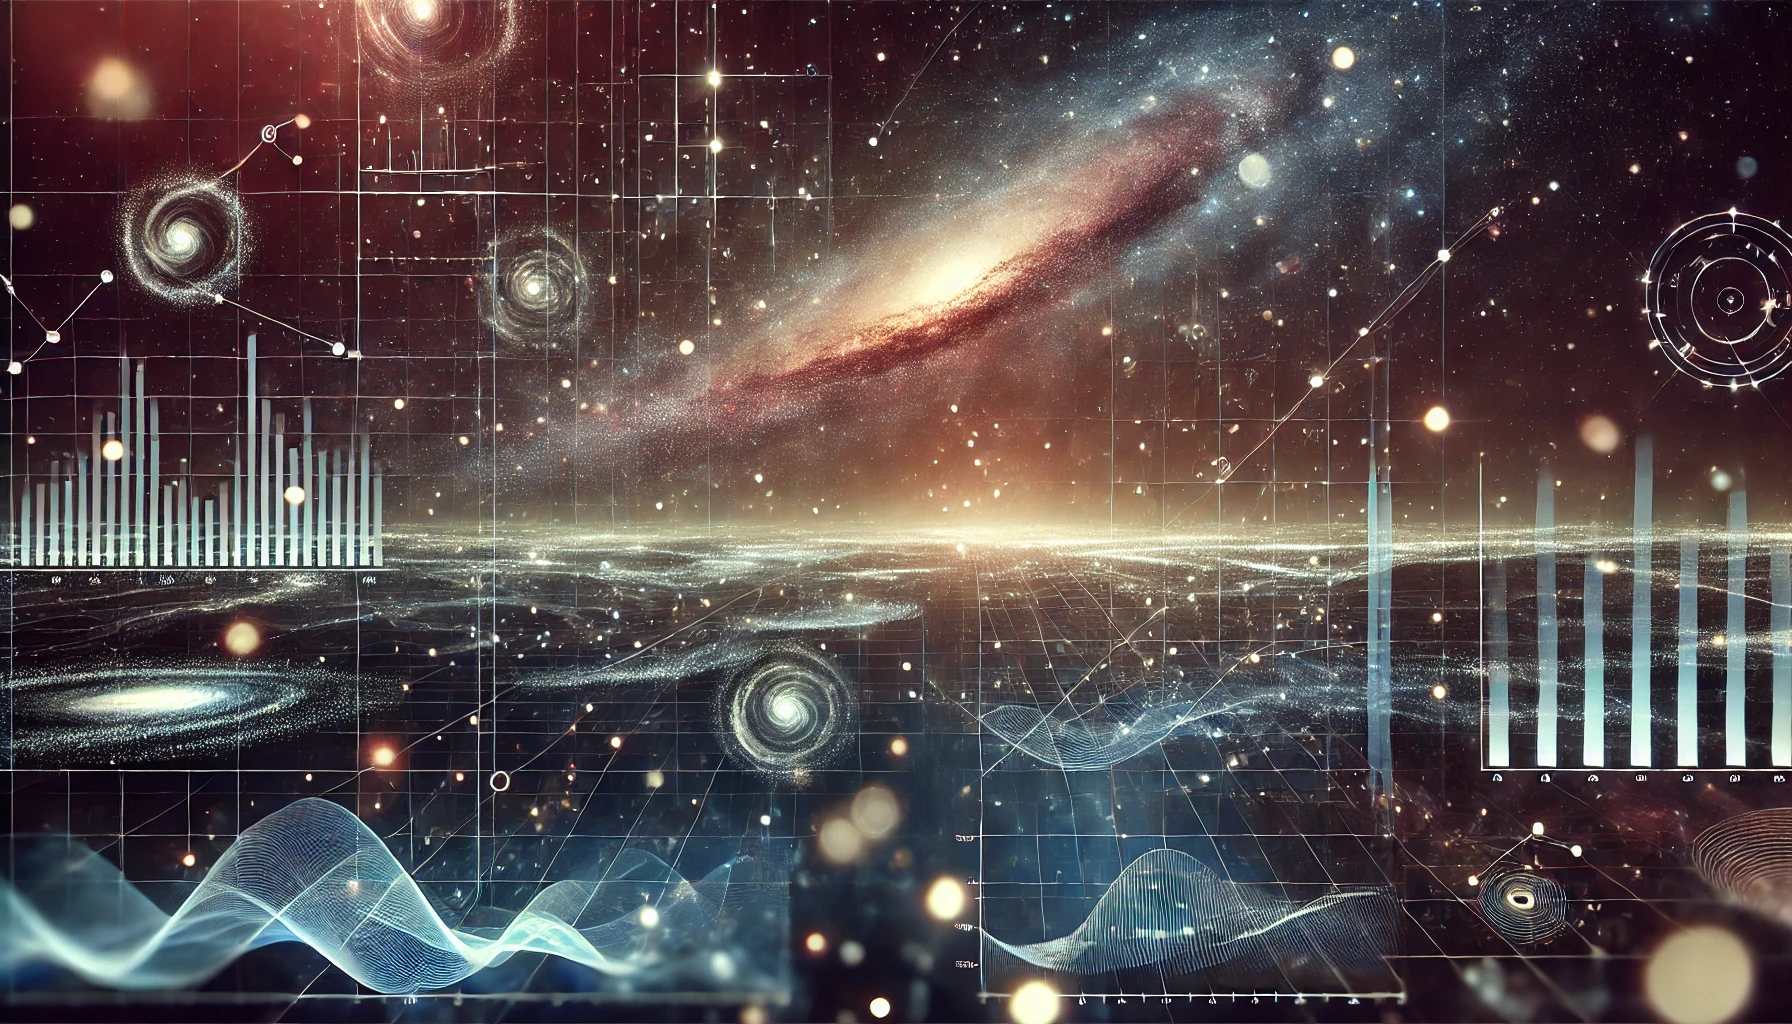
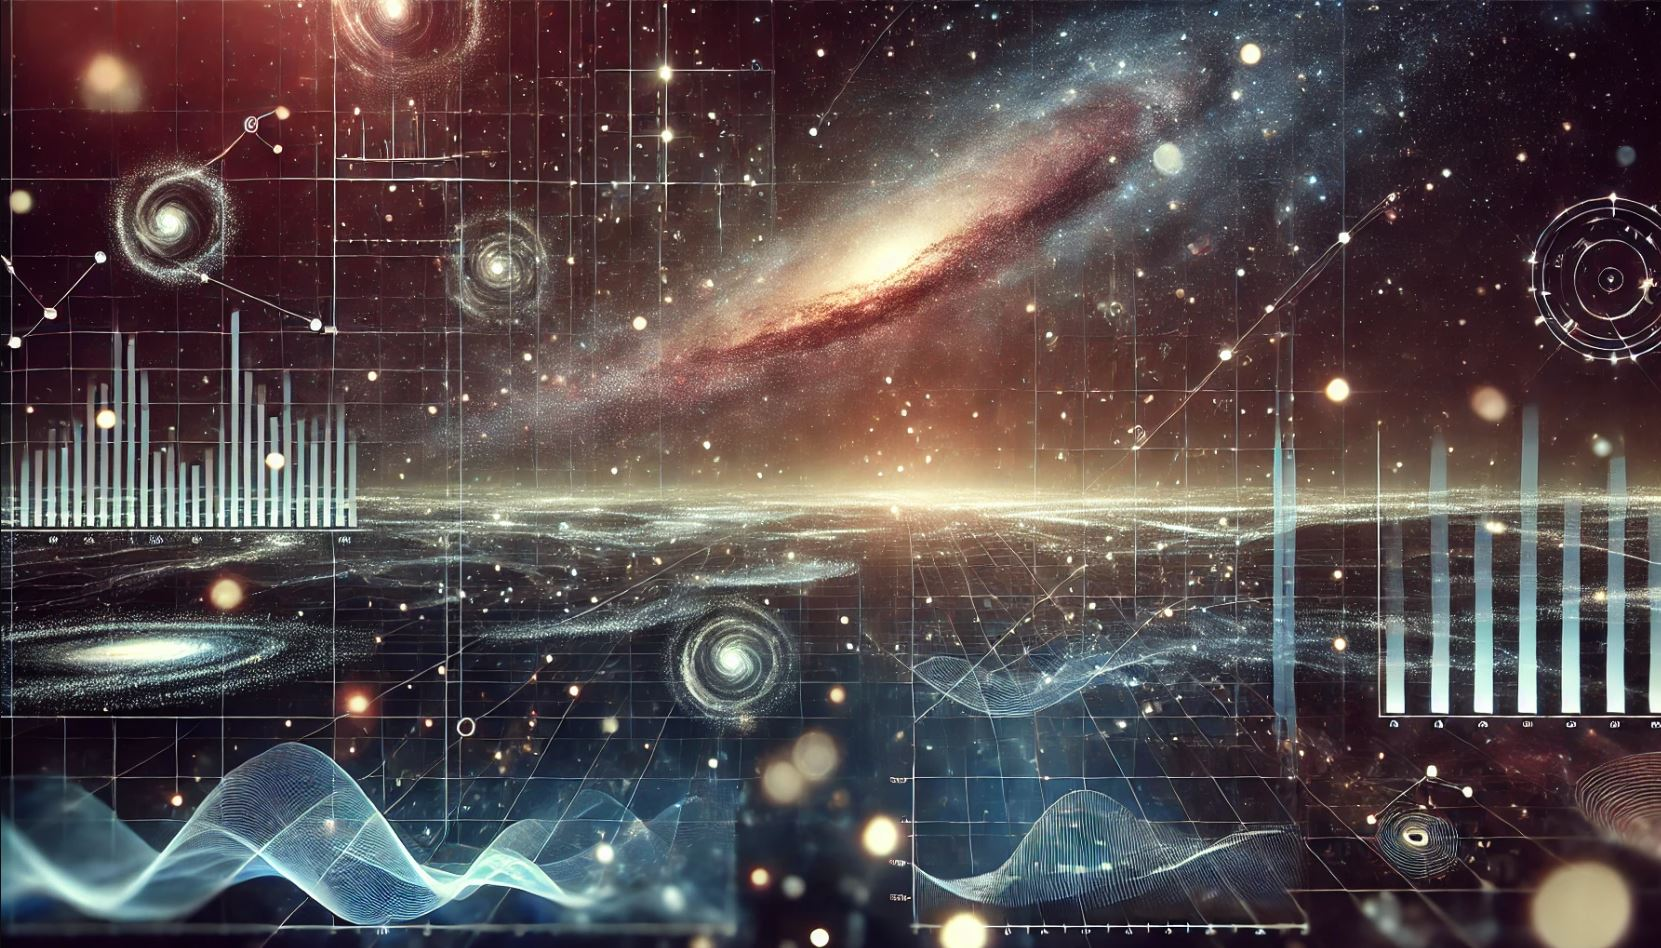
background light

diff --git a/assets/css/style.css b/assets/css/style.css
@@ -1128,7 +1128,7 @@ section {
 # Footer
 --------------------------------------------------------------*/
 #footer {
-  background: url("../img/hero-bg_cesare.jpg") top center no-repeat;
+  background: url("../img/footer_bg_cesare.jpg") top center no-repeat;
   background-size: cover;
   color: #fff;
   font-size: 14px;
